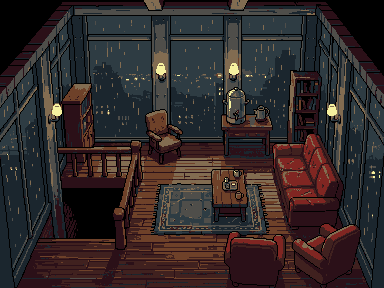
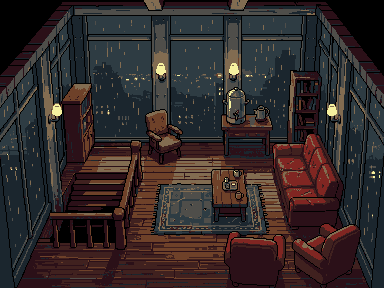
Exchange: the lounge stairs climb toward the back, like the dining room's
The lounge's stairwell was drawn going down toward the back, so you came up
at its front as if you had walked down. Its stairs now rise from the front to
the back, with the railing along the front and right, so you step off at the
back by the cabinet and go down by walking toward the front. The storm spots
moved so the stairs, the urn, the sofa and everyone stay reachable.

Claude-Session: https://claude.ai/code/session_011FVFbT6X2tiTMEPbvbfDJT

Changed region(s): [[0.125, 0.5, 0.3438, 0.875]]

diff --git a/game/js/exchange-rooms.js b/game/js/exchange-rooms.js
@@ -276,12 +276,13 @@
   // railing. A sofa, armchairs, a coffee urn, and Hash's armchair by the window that looks out at the tower.
   R.xlounge = {
     name: 'THE DINER LOUNGE', down: ['xupper', 3, 4, 'east'],
-    map: ['############', '############', '############', '############', '####.#..####',
-      '####...#.###', '##SS.....###', '#......#####', '############'],
-    enter: [2, 7, 'east'],
+    // The stairs climb toward the back, like the ones below: you step off at the top, by the cabinet, and go down toward the front.
+    map: ['############', '############', '############', '############', '##...#..####',
+      '##SS...#.###', '####.....###', '#......#####', '############'],
+    enter: [2, 4, 'east'],
     // Clear of the ways from the stairs to the urn and round the table to the sofa.
     people: () => shelter('xlounge'),
-    spots: { _: [[4, 4, 'east'], [5, 5, 'north'], [6, 7, 'north'], [1, 7, 'east']] },
+    spots: { _: [[5, 5, 'north'], [5, 7, 'east'], [6, 7, 'west'], [1, 7, 'east']] },
     names: FOLK_NAMES, looks: FOLK_LOOKS,
     lights: [{ x: 5, y: 2.1, r: 2.4 }, { x: 7.3, y: 2.1, r: 2.4 }, { x: 1.8, y: 3.4, r: 2 }, { x: 10.4, y: 3.4, r: 2 }],
     props: [
